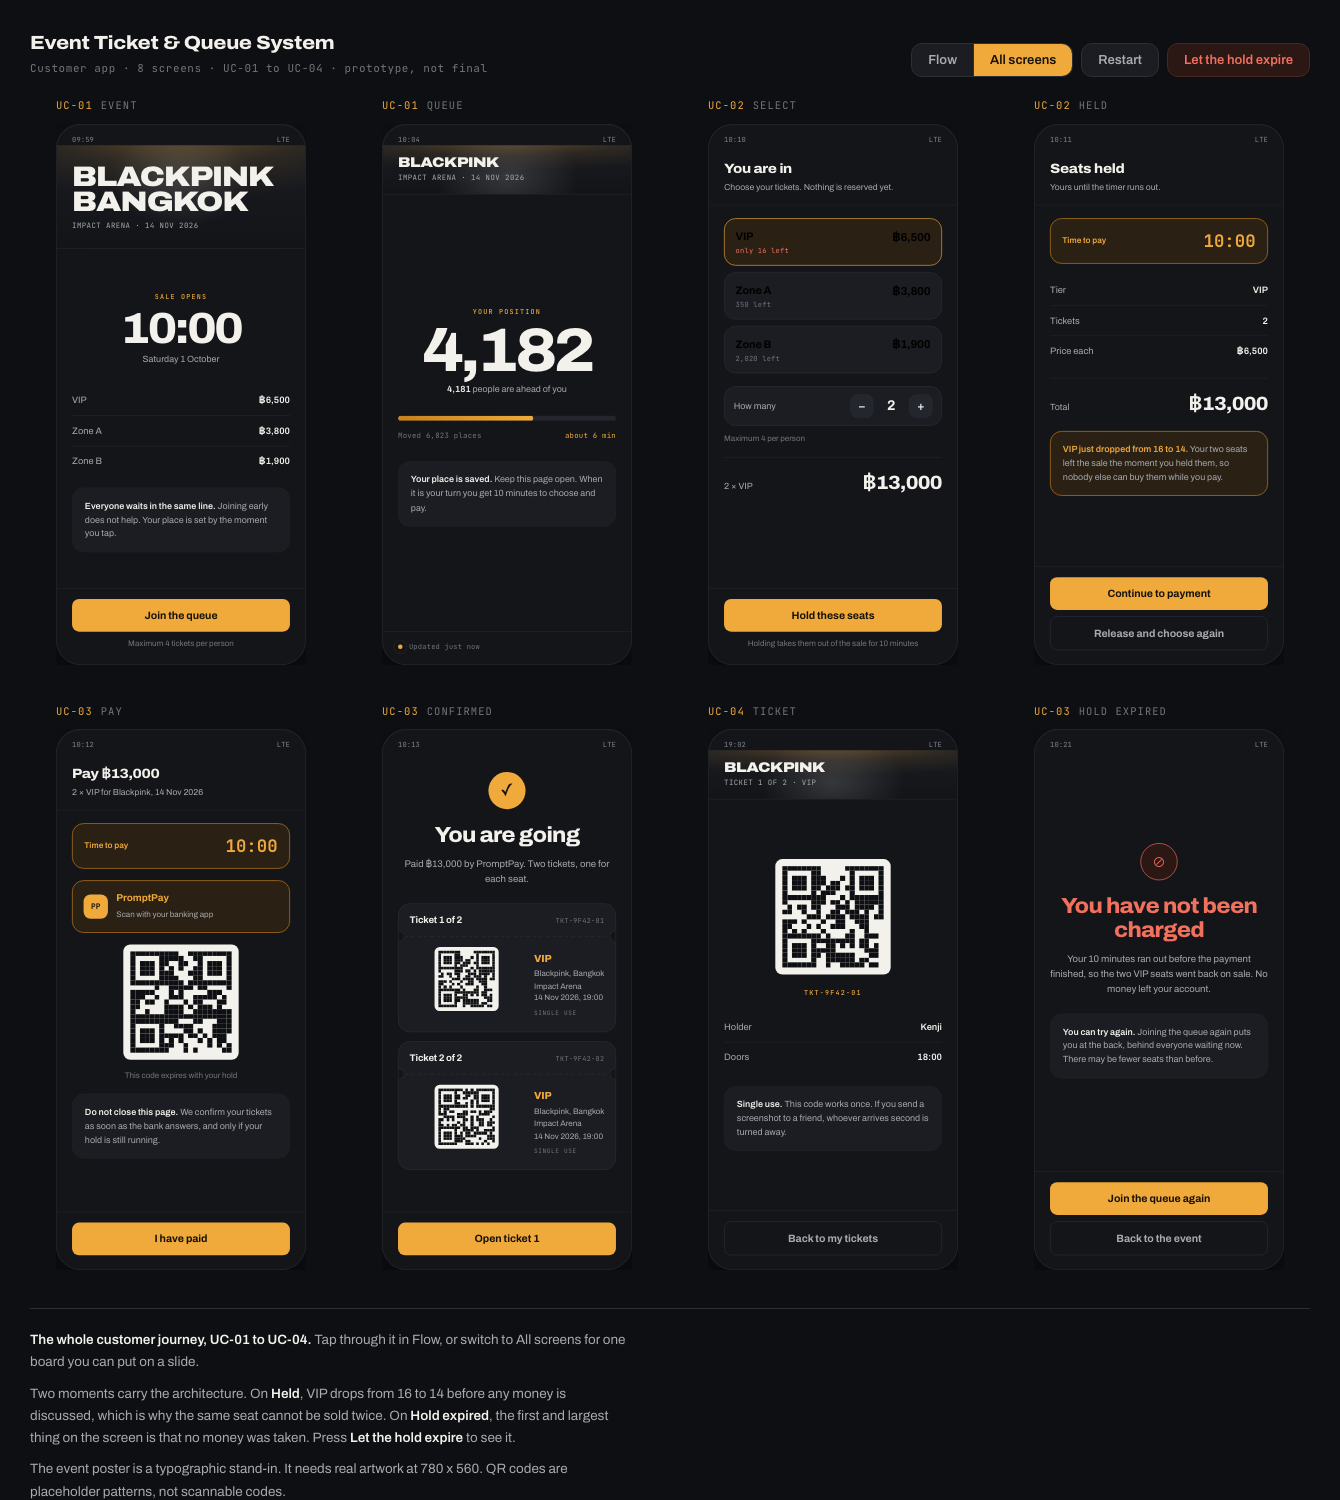
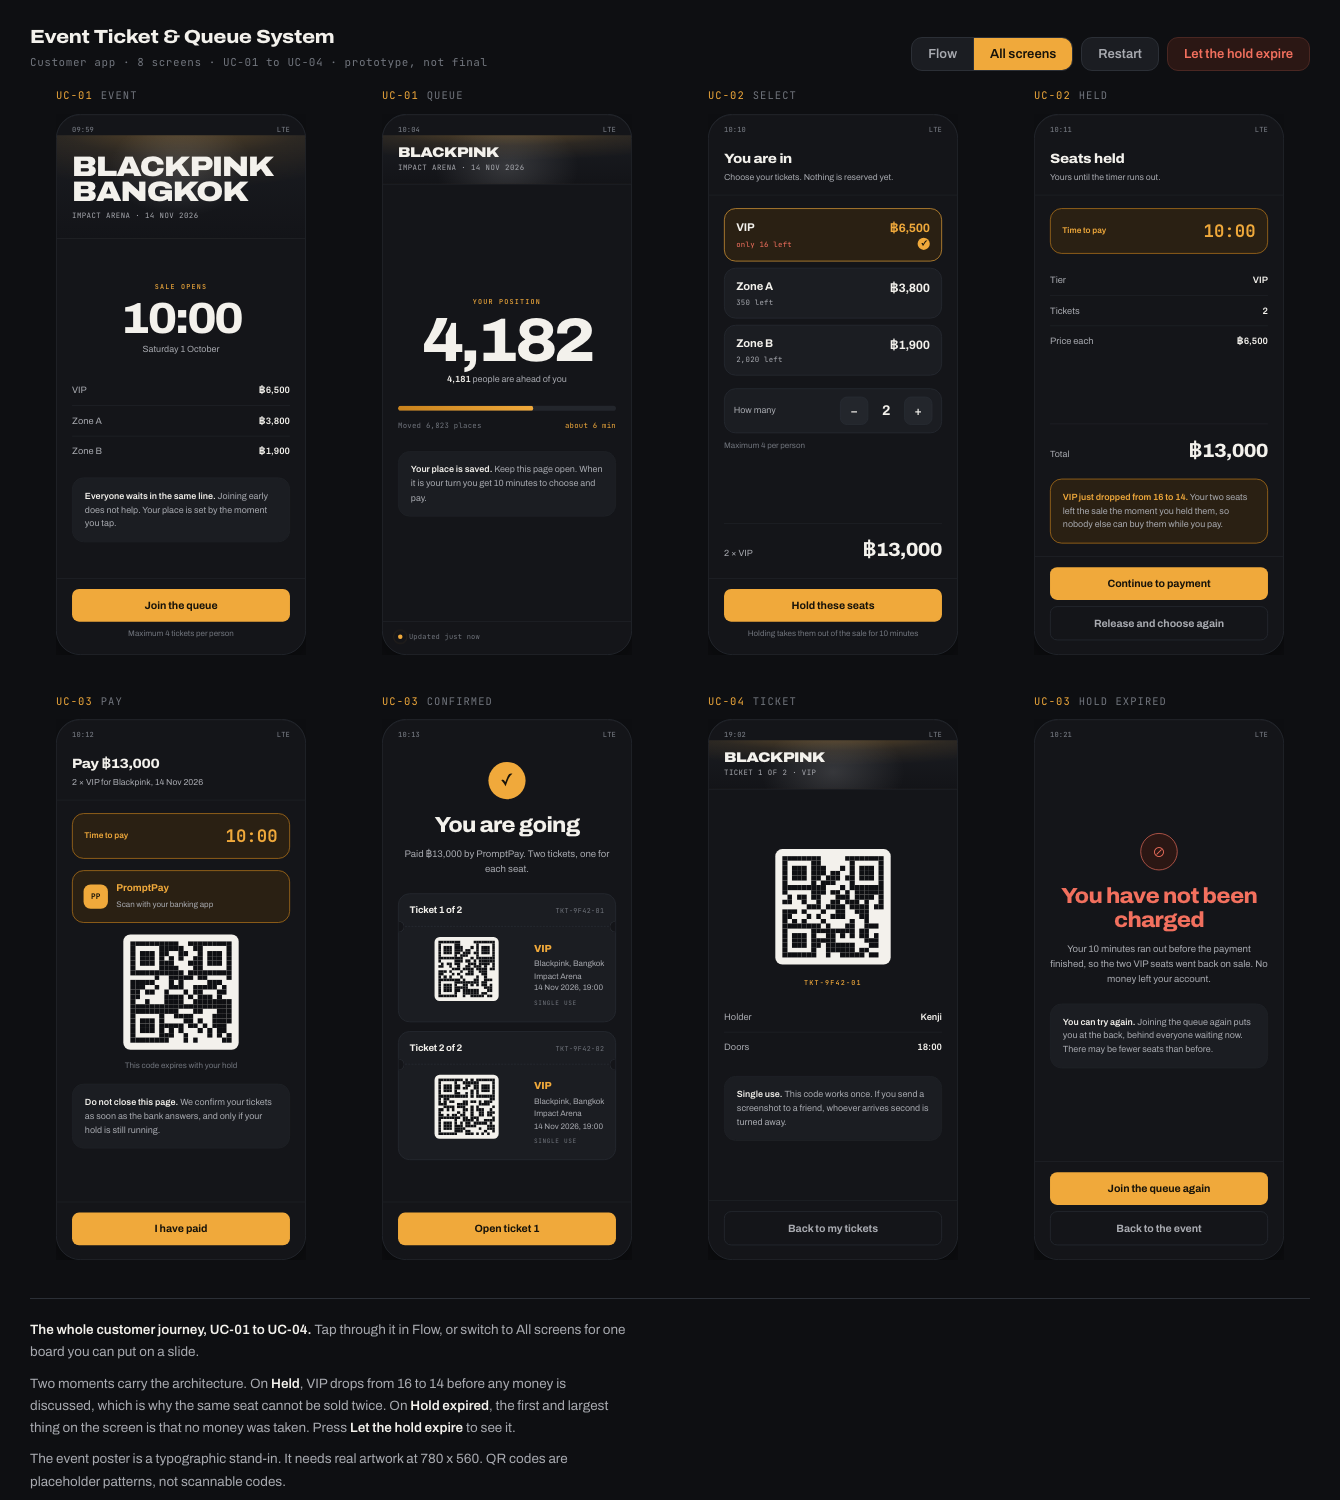
Fix unreadable tier text and the CTA falling below the fold
Your screenshot caught what my 64% board screenshot hid.

The bad one: .tier is a <button> and buttons do not inherit colour.
It never set one, so tier names and prices rendered in the UA's
buttontext, near-black on a #1B1D22 card, around 1.4:1. The prices
were effectively invisible. Now set explicitly, with the selected
row's price in amber and a filled tick so selection reads twice.

The other bad one: a fixed 844px phone plus page chrome overflowed
the viewport, so "Hold these seats" sat below the fold and scrolling
to it took the controls off screen. The stage now computes a --fit
scale from the real viewport height and the chrome is sticky, so the
whole phone and its action are always visible. Full bleed under 430px
is unchanged.

Also: quantity steppers 36px to 44px for the touch-target floor, and
the order total now anchors above the action with margin-top auto
instead of floating in 180px of dead space.

Perforation on the ticket stubs is a dashed border now rather than a
tiled linear-gradient. Same line, no px-tiled hairline field, and the
Impeccable detector goes to zero findings.

diff --git a/design/prototype/app.html b/design/prototype/app.html
@@ -70,8 +70,9 @@ body {
 /* ============================= prototype chrome ========================== */
 
 .chrome {
+  position: sticky; top: 0; z-index: 20; background: var(--ink);
   max-width: 1280px; margin: 0 auto;
-  padding-block: 28px 20px;
+  padding-block: 22px 16px;
   display: flex; flex-wrap: wrap; gap: 16px 24px;
   align-items: flex-end; justify-content: space-between;
 }
@@ -111,7 +112,13 @@ body {
 /* ================================ stage ================================== */
 
 .stage { max-width: 1280px; margin: 0 auto; }
-.stage[data-mode="flow"] { display: flex; justify-content: center; }
+/* --fit is set from the real viewport height so the footer action is never
+   pushed below the fold. */
+.stage[data-mode="flow"] { display: flex; justify-content: center; --fit: 1; }
+.stage[data-mode="flow"] .frame-wrap {
+  width: calc(390px * var(--fit)); height: calc(844px * var(--fit));
+}
+.stage[data-mode="flow"] .frame { transform: scale(var(--fit)); transform-origin: top left; }
 .stage[data-mode="flow"] .card { display: none; }
 .stage[data-mode="flow"] .card.is-active { display: block; }
 .stage[data-mode="flow"] .card-label { display: none; }
@@ -145,9 +152,11 @@ body {
 @media (max-width: 430px) {
   body { padding-inline: 0; }
   .chrome { padding-inline: 16px; }
+  .stage[data-mode="flow"] { --fit: 1; }
+  .stage[data-mode="flow"] .frame-wrap { width: 100%; height: auto; }
   .stage[data-mode="flow"] .frame {
     width: 100%; height: auto; min-height: 100dvh;
-    border: 0; border-radius: 0; box-shadow: none;
+    transform: none; border: 0; border-radius: 0; box-shadow: none;
   }
   .stage[data-mode="board"] { grid-template-columns: 1fr; }
 }
@@ -279,18 +288,33 @@ body {
 
 .tiers { display: grid; gap: 10px; margin-bottom: 20px; }
 .tier {
-  display: grid; grid-template-columns: 1fr auto; align-items: center; gap: 3px 12px;
+  position: relative;
+  display: grid; grid-template-columns: 1fr auto; align-items: center; gap: 4px 14px;
   border: 1px solid var(--edge); border-radius: var(--r);
-  padding: 16px 17px; background: var(--raise); cursor: pointer;
+  padding: 17px 18px; background: var(--raise); cursor: pointer;
   text-align: left; font-family: var(--display);
+  color: var(--bone);                 /* buttons do not inherit this */
   transition: border-color 170ms var(--ease), background 170ms var(--ease);
 }
+.tier:hover { border-color: #3A4049; }
 .tier[aria-pressed="true"] { border-color: var(--amber); background: var(--amber-wash); }
 .tier:focus-visible { outline: 2px solid var(--amber); outline-offset: 2px; }
-.tier .nm { font-size: 17px; font-weight: 700; letter-spacing: -0.015em; }
-.tier .pr { font-size: 18px; font-weight: 700; font-variant-numeric: tabular-nums; letter-spacing: -0.02em; }
-.tier .lf { font-family: var(--mono); font-size: 11px; color: var(--bone-3); letter-spacing: 0.03em; }
+.tier .nm { font-size: 17.5px; font-weight: 700; letter-spacing: -0.015em; color: var(--bone); }
+.tier .pr {
+  font-size: 19px; font-weight: 700; font-variant-numeric: tabular-nums;
+  letter-spacing: -0.025em; color: var(--bone);
+}
+.tier[aria-pressed="true"] .pr { color: var(--amber); }
+.tier .lf { font-family: var(--mono); font-size: 11.5px; color: var(--bone-2); letter-spacing: 0.03em; }
 .tier .lf.low { color: var(--stop); }
+/* the selected row says so twice: colour and a mark */
+.tier .tick {
+  grid-column: 2; justify-self: end;
+  width: 19px; height: 19px; border-radius: 50%;
+  background: var(--amber); color: var(--on-amber);
+  display: none; place-items: center; font-size: 12px; font-weight: 800; line-height: 1;
+}
+.tier[aria-pressed="true"] .tick { display: grid; }
 
 .qty {
   display: flex; align-items: center; justify-content: space-between;
@@ -300,7 +324,7 @@ body {
 .qty .lab { font-size: 14px; color: var(--bone-2); }
 .qty .ctl { display: flex; align-items: center; gap: 16px; }
 .step {
-  appearance: none; width: 36px; height: 36px; border-radius: var(--r-sm);
+  appearance: none; width: 44px; height: 44px; border-radius: var(--r-sm);
   border: 1px solid var(--edge); background: var(--raise-2); color: var(--bone);
   font-family: var(--display); font-size: 19px; font-weight: 600; line-height: 1; cursor: pointer;
 }
@@ -310,7 +334,7 @@ body {
 
 .total {
   display: flex; justify-content: space-between; align-items: baseline;
-  padding-top: 16px; border-top: 1px solid var(--edge-soft);
+  padding-top: 18px; margin-top: auto; border-top: 1px solid var(--edge-soft);
 }
 .total .l { font-size: 14px; color: var(--bone-2); }
 .total .v {
@@ -380,9 +404,8 @@ body {
 .stub .st { font-size: 15px; font-weight: 700; letter-spacing: -0.015em; }
 .stub .sid { font-family: var(--mono); font-size: 10.5px; color: var(--bone-3); letter-spacing: 0.06em; }
 .stub .perf {
-  position: relative; height: 1px;
-  background-image: linear-gradient(90deg, var(--edge) 0 5px, transparent 5px 10px);
-  background-size: 10px 1px;
+  position: relative; height: 0;
+  border-top: 1px dashed var(--edge);
 }
 .stub .perf::before, .stub .perf::after {
   content: ""; position: absolute; top: -9px; width: 18px; height: 18px;
@@ -526,15 +549,15 @@ body {
         <div class="tiers">
           <button class="tier" type="button" data-tier="vip" aria-pressed="true">
             <span class="nm">VIP</span><span class="pr">฿6,500</span>
-            <span class="lf low">only 16 left</span><span></span>
+            <span class="lf low">only 16 left</span><span class="tick" aria-hidden="true">&#10003;</span>
           </button>
           <button class="tier" type="button" data-tier="a" aria-pressed="false">
             <span class="nm">Zone A</span><span class="pr">฿3,800</span>
-            <span class="lf">350 left</span><span></span>
+            <span class="lf">350 left</span><span class="tick" aria-hidden="true">&#10003;</span>
           </button>
           <button class="tier" type="button" data-tier="b" aria-pressed="false">
             <span class="nm">Zone B</span><span class="pr">฿1,900</span>
-            <span class="lf">2,020 left</span><span></span>
+            <span class="lf">2,020 left</span><span class="tick" aria-hidden="true">&#10003;</span>
           </button>
         </div>
         <div class="qty">
@@ -749,6 +772,16 @@ body {
     show(t.getAttribute("data-go"));
   });
 
+  function fit() {
+    if (stage.getAttribute("data-mode") !== "flow" || window.innerWidth <= 430) {
+      stage.style.removeProperty("--fit"); return;
+    }
+    var top = stage.getBoundingClientRect().top + window.scrollY;
+    var room = window.innerHeight - top - 22;
+    stage.style.setProperty("--fit", Math.min(1, Math.max(0.46, room / 844)).toFixed(3));
+  }
+  window.addEventListener("resize", fit);
+
   var mFlow = document.getElementById("m-flow");
   var mBoard = document.getElementById("m-board");
   function mode(m) {
@@ -756,6 +789,7 @@ body {
     mFlow.setAttribute("aria-pressed", m === "flow" ? "true" : "false");
     mBoard.setAttribute("aria-pressed", m === "board" ? "true" : "false");
     if (m === "board") { startClock(); startQueue(); }
+    fit();
   }
   mFlow.addEventListener("click", function () { mode("flow"); });
   mBoard.addEventListener("click", function () { mode("board"); });
@@ -900,7 +934,7 @@ body {
     stopClock(); stopQueue(); if (qAge) clearInterval(qAge);
   });
 
-  paintQueue(); paintSel(); paintClock();
+  paintQueue(); paintSel(); paintClock(); fit();
 }());
 </script>
 </body>
